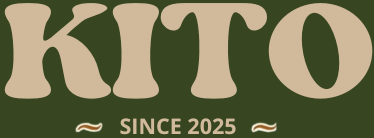
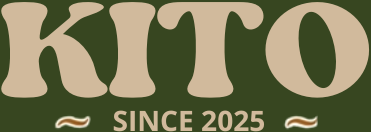
Footer updated
changed kito to text
added a black strip
enhanced the look

diff --git a/style.css b/style.css
@@ -78,17 +78,95 @@ footer {
     position: relative;
     z-index: 1;
     margin-top: 3vw;
-
     display: flex;
     justify-content: center;
     align-items: flex-start;
 }
 
-.square img {
-    object-fit: contain;
-    width: 10%;
-    height: 5%;
-    margin-top: 60px;
+.square-item1 {
+    padding-right: 10%;
+    padding-left: 10%;
+}
+
+.square-item2 {
+    padding-right: 10%;
+    padding-left: 10%;
+    text-align: center;
+    position: relative;
+}
+
+.square-item2::before,
+.square-item2::after {
+    content: "";
+    position: absolute;
+    top: 30%;
+    width: 1%;
+    height: 60%;
+    border-radius: 10px;
+    background-color: #d1ba9c;
+}
+
+.square-item2::before {
+    left: 0;
+}
+
+.square-item2::after {
+    right: 0;
+}
+
+.square-item3 {
+    padding-right: 10%;
+    padding-left: 10%;
+}
+
+.square-item2 p {
+    margin: 5vh 0 0 0;
+    font-family: 'Bree Serif', serif;
+    font-size: 550%;
+    color: #d1ba9c;
+    font-weight: bold;
+    letter-spacing: 2px;
+}
+
+.p1 {
+    margin: 0;
+    transform: translateY(-20px);
+    font-family: 'Bree Serif', serif;
+    font-size: 100%;
+    color: #d1ba9c;
+    font-weight: bold;
+    letter-spacing: 2px;
+}
+
+.p2 {
+    margin: 0;
+    transform: translateY(-20px);
+    font-family: 'Playfair Display', serif;
+    font-size: 80%;
+    color: #d1ba9c;
+    letter-spacing: 2px;
+}
+
+.website-info {
+    width: 100%;
+    min-height: 70px;
+    background-color: black;
+    font-family: 'Bree Serif', serif;
+    color: #d1ba9c;
+
+    display: flex;
+    align-items: center;
+    justify-content: space-between;
+
+    padding: 0 3vw;
+    box-sizing: border-box;
+}
+
+.website-info-item {
+    flex: 1;
+    text-align: center;
+    padding: 0 1vw;
+    font-size: 14px;
 }
 
 @media (min-width: 1024px) {
@@ -122,4 +200,18 @@ footer {
     .square img {
         margin-top: 40px;
     }
+
+    .website-info {
+        flex-direction: column;
+        justify-content: center;
+        gap: 10px;
+        padding: 20px 5vw;
+    }
+
+    .website-info-item {
+        width: 100%;
+        padding: 0;
+        font-size: 12px;
+    }
+
 }

diff --git a/index.html b/index.html
@@ -11,6 +11,16 @@
     </title>
 
     <link rel="stylesheet" href="style.css">
+
+    <link rel="preconnect" href="https://fonts.googleapis.com">
+    <link rel="preconnect" href="https://fonts.gstatic.com" crossorigin>
+    <link href="https://fonts.googleapis.com/css2?family=Bree+Serif&display=swap" rel="stylesheet">
+
+    <link rel="preconnect" href="https://fonts.googleapis.com">
+    <link rel="preconnect" href="https://fonts.gstatic.com" crossorigin>
+    <link
+        href="https://fonts.googleapis.com/css2?family=Bree+Serif&family=Playfair+Display:ital,wght@0,400..900;1,400..900&display=swap"
+        rel="stylesheet">
 </head>
 
 <body>
@@ -133,14 +143,26 @@
         <div class="circle">
             <img src="images/Kitologo_perfect1.png" alt="KITO Restaurant Logo">
         </div>
-
         <div class="square">
-            <img class="text-logo" src="images/kito_text.png" alt="KITO Restaurant Logo">
-        </div>
+            <div class="square-item1">
+                a
+            </div>
 
-        <div class="footer-content">
-            <p>&copy; 2026 KITO Restaurant. All rights reserved.</p>
+            <div class="square-item2">
+                <p>KITO</p>
+                <div class="p1">~ Since 2025 ~</div>
+                <div class="p2">Where Taste Meets Elegance</div>
+
+            </div>
+            <div class="square-item3">
+                c
+            </div>
         </div>
+        <div class="website-info">
+            <div class="website-info-item">© 2026 KITO Restaurant. All rights reserved.</div>
+            <div class="website-info-item">Privacy Policy</div>
+            <div class="website-info-item">Terms & Conditions </div>
+            <div class="website-info-item">Website by Dylon Studio</div>
         </div>
     </footer>
 </body>
